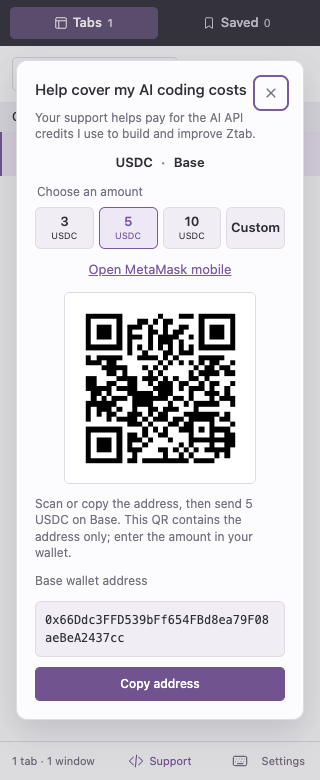
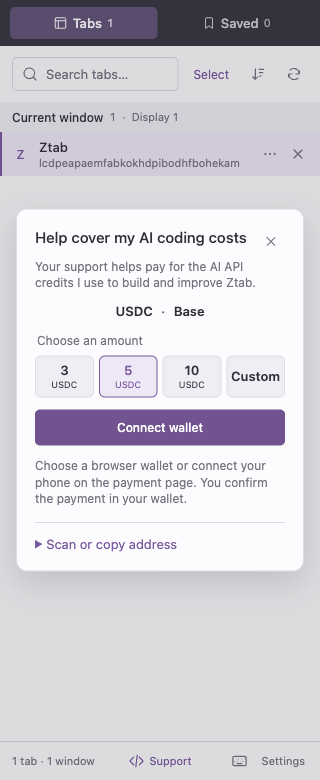
(fix): (route Ztab support through the hosted wallet checkout and remove mobile payment links that fail in desktop MetaMask)

diff --git a/side-panel.html b/side-panel.html
@@ -59,7 +59,7 @@
         </span>
       </footer>
     </main>
-    <dialog id="support-dialog" class="dialog support-dialog" aria-labelledby="support-title" aria-describedby="support-instructions">
+    <dialog id="support-dialog" class="dialog support-dialog" aria-labelledby="support-title" aria-describedby="support-wallet-help">
       <div class="support-heading">
         <h2 id="support-title" class="dialog-title">Help cover my AI coding costs</h2>
         <button id="close-support" class="icon-button" type="button" aria-label="Close support dialog" title="Close"></button>
@@ -79,14 +79,17 @@
         </label>
         <p id="support-amount-error" class="support-amount-error" role="status" aria-live="polite"></p>
       </fieldset>
-      <a id="support-pay" class="primary support-pay" target="_blank" rel="noopener noreferrer" hidden>Continue with wallet</a>
-      <a id="support-mobile" class="support-mobile" target="_blank" rel="noopener noreferrer" hidden>Open MetaMask mobile</a>
-      <img class="support-qr" src="icons/support-base-usdc.png" width="192" height="192" alt="QR code containing the wallet address below" />
-      <p id="support-instructions" class="dialog-help">Scan or copy the address, then send USDC on Base.</p>
-      <label class="field support-address-label" for="support-address">Base wallet address</label>
-      <textarea id="support-address" class="support-address" rows="2" readonly spellcheck="false"></textarea>
-      <button id="copy-support-address" class="primary support-copy" type="button">Copy address</button>
-      <p id="support-copy-status" class="support-copy-status" role="status" aria-live="polite"></p>
+      <a id="support-pay" class="primary support-pay" target="_blank" rel="noopener noreferrer" hidden>Connect wallet</a>
+      <p id="support-wallet-help" class="dialog-help">Choose a browser wallet or connect your phone on the payment page. You confirm the payment in your wallet.</p>
+      <details class="support-manual">
+        <summary>Scan or copy address</summary>
+        <img class="support-qr" src="icons/support-base-usdc.png" width="192" height="192" alt="QR code containing the wallet address below" />
+        <p id="support-instructions" class="dialog-help">Scan or copy the address, then send USDC on Base.</p>
+        <label class="field support-address-label" for="support-address">Base wallet address</label>
+        <textarea id="support-address" class="support-address" rows="2" readonly spellcheck="false"></textarea>
+        <button id="copy-support-address" class="support-copy" type="button">Copy address</button>
+        <p id="support-copy-status" class="support-copy-status" role="status" aria-live="polite"></p>
+      </details>
     </dialog>
     <script type="module" src="src/tab-tree.js"></script>
   </body>

diff --git a/tests/support.test.js b/tests/support.test.js
@@ -5,7 +5,7 @@ import jsQR from "jsqr";
 import { PNG } from "pngjs";
 import {
   parseSupportAmount, SUPPORT_WALLET_ADDRESS, SUPPORT_USDC_ADDRESS,
-  supportCheckoutUrl, supportPaymentUri, supportMetaMaskUrl,
+  supportCheckoutUrl, supportPaymentUri,
 } from "../src/shared/support.js";
 
 test("the bundled support QR decodes to the same recipient as the copy button", () => {
@@ -29,20 +29,21 @@ test("invalid and overflowing amounts cannot create a payment request", () => {
   for (const value of ["", "0", "0.000000", "-3", "1e6", "1,5", "1.0000001", "3.", ".5", "NaN", "Infinity", "9".repeat(73)]) {
     assert.equal(parseSupportAmount(value), null, value);
     assert.equal(supportPaymentUri(value), "", value);
-    assert.equal(supportMetaMaskUrl(value), "", value);
+    assert.equal(supportCheckoutUrl(value), "", value);
   }
   const overflow = ((1n << 256n) / 1_000_000n + 1n).toString();
   assert.equal(parseSupportAmount(overflow), null);
 });
 
-test("wallet links request native Base USDC with the exact recipient and atomic amount", () => {
+test("payment QR requests native Base USDC with the exact recipient and atomic amount", () => {
   const request = `${SUPPORT_USDC_ADDRESS}@8453/transfer?address=${SUPPORT_WALLET_ADDRESS}&uint256=1234567`;
   assert.equal(supportPaymentUri("1.234567"), `ethereum:${request}`);
-  assert.equal(supportMetaMaskUrl("1.234567"), `https://link.metamask.io/send/${request}`);
 });
 
-test("checkout is unavailable until configured and passes only a normalized amount", () => {
-  assert.equal(supportCheckoutUrl("5"), "");
+test("checkout opens the hosted wallet page and passes only a normalized amount", () => {
+  assert.equal(supportCheckoutUrl("5"), "https://z08-studio.github.io/ztab/?amount=5");
+  assert.equal(supportCheckoutUrl("1.234567"), "https://z08-studio.github.io/ztab/?amount=1.234567");
+  assert.equal(supportCheckoutUrl("5", ""), "");
   for (const url of ["javascript:alert(1)", "http://example.com", "https://user:password@example.com", "not a URL"]) {
     assert.equal(supportCheckoutUrl("5", url), "");
   }

diff --git a/support-site/main.js b/support-site/main.js
@@ -2,7 +2,7 @@ import QRCode from "qrcode";
 import brandIcon from "../icons/icon48.png";
 import favicon from "../icons/icon32.png";
 import { initSupportAmount } from "../src/support-amount.js";
-import { SUPPORT_DEFAULT_AMOUNT, SUPPORT_WALLET_ADDRESS, supportMetaMaskUrl, supportPaymentUri } from "../src/shared/support.js";
+import { SUPPORT_DEFAULT_AMOUNT, SUPPORT_WALLET_ADDRESS, supportPaymentUri } from "../src/shared/support.js";
 
 const amountFields = document.getElementById("support-amount");
 const connect = document.getElementById("connect-wallet");
@@ -13,7 +13,6 @@ const transactionLink = document.getElementById("transaction");
 const manual = document.getElementById("manual-payment");
 const manualInstructions = document.getElementById("manual-instructions");
 const qr = document.getElementById("payment-qr");
-const mobile = document.getElementById("metamask-mobile");
 const address = document.getElementById("recipient");
 const copy = document.getElementById("copy-address");
 const copyStatus = document.getElementById("copy-status");
@@ -48,11 +47,8 @@ initSupportAmount(amountFields, (value) => {
     amount = value;
     copyStatus.textContent = "";
     qr.hidden = !amount;
-    mobile.hidden = !amount;
-    mobile.removeAttribute("href");
     manualInstructions.textContent = amount ? `${amount.amount} USDC on Base` : "Choose an amount above.";
     if (amount) {
-        mobile.href = supportMetaMaskUrl(amount.amount);
         // This is a payment request, not an address-only QR: it includes Base,
         // Circle's USDC contract, the recipient, and the exact atomic amount.
         QRCode.toCanvas(qr, supportPaymentUri(amount.amount), { width: 224, margin: 4, errorCorrectionLevel: "M" })

diff --git a/src/shared/support.js b/src/shared/support.js
@@ -7,9 +7,8 @@ export const SUPPORT_USDC_ADDRESS = "0x833589fCD6eDb6E08f4c7C32D4f71b54bdA02913"
 export const SUPPORT_DEFAULT_AMOUNT = "5";
 export const SUPPORT_AMOUNT_ERROR = "Enter an amount greater than 0, with up to 6 decimal places.";
 
-// Set this only after the support site and its Reown project are ready.
-// Leaving it empty keeps the extension's local scan/copy flow available.
-export const SUPPORT_CHECKOUT_URL = "";
+// Browser wallets connect on the hosted page rather than a chrome-extension origin.
+export const SUPPORT_CHECKOUT_URL = "https://z08-studio.github.io/ztab/";
 
 export function parseSupportAmount(value) {
     const match = /^(\d+)(?:\.(\d{1,6}))?$/.exec(String(value).trim());
@@ -41,9 +40,4 @@ export function supportPaymentUri(amount) {
     const parsed = parseSupportAmount(amount);
     if (!parsed) return "";
     return `ethereum:${SUPPORT_USDC_ADDRESS}@${SUPPORT_CHAIN_ID}/transfer?address=${SUPPORT_WALLET_ADDRESS}&uint256=${parsed.units}`;
-}
-
-export function supportMetaMaskUrl(amount) {
-    const uri = supportPaymentUri(amount);
-    return uri ? uri.replace("ethereum:", "https://link.metamask.io/send/") : "";
 }

diff --git a/src/support.js b/src/support.js
@@ -1,5 +1,5 @@
 import { icon } from "./panel-ui.js";
-import { SUPPORT_WALLET_ADDRESS, supportCheckoutUrl, supportMetaMaskUrl } from "./shared/support.js";
+import { SUPPORT_WALLET_ADDRESS, supportCheckoutUrl } from "./shared/support.js";
 import { initSupportAmount } from "./support-amount.js";
 
 export function initSupportDialog() {
@@ -11,7 +11,6 @@ export function initSupportDialog() {
     const status = document.getElementById("support-copy-status");
     const instructions = document.getElementById("support-instructions");
     const pay = document.getElementById("support-pay");
-    const mobile = document.getElementById("support-mobile");
     let amount = null;
 
     trigger.prepend(icon("code"));
@@ -27,10 +26,6 @@ export function initSupportDialog() {
         pay.hidden = !checkout;
         if (checkout) pay.href = checkout;
         else pay.removeAttribute("href");
-        const mobileUrl = supportMetaMaskUrl(amount?.amount);
-        mobile.hidden = !mobileUrl;
-        if (mobileUrl) mobile.href = mobileUrl;
-        else mobile.removeAttribute("href");
     });
 
     trigger.addEventListener("click", () => {

diff --git a/support-site/support.css b/support-site/support.css
@@ -69,14 +69,13 @@ button:focus-visible, a:focus-visible, input:focus-visible, textarea:focus-visib
 .status { overflow-wrap: anywhere; }
 .status[data-error="true"] { color: var(--danger); }
 .status:empty { display: none; }
-.transaction, .mobile-link { color: var(--accent); overflow-wrap: anywhere; }
+.transaction { color: var(--accent); overflow-wrap: anywhere; }
 .transaction { display: block; margin: 12px 0; }
 
 details { margin-top: 24px; padding-top: 16px; border-top: 1px solid var(--line); }
 summary { color: var(--accent); cursor: pointer; }
 .manual-instructions { text-align: center; overflow-wrap: anywhere; font-weight: 600; }
 .payment-qr { display: block; width: min(100%, 224px); height: auto; margin: 16px auto; border-radius: 8px; }
-.mobile-link { display: block; text-align: center; margin: 14px 0; }
 .address-label { display: block; margin: 12px 0 5px; color: var(--muted); font-size: 12px; }
 textarea {
     display: block;

diff --git a/support-site/index.html b/support-site/index.html
@@ -41,7 +41,6 @@
         <p id="manual-instructions" class="manual-instructions"></p>
         <canvas id="payment-qr" class="payment-qr" width="224" height="224" role="img" aria-label="Base USDC payment request QR"></canvas>
         <p class="wallet-help">Scan with a wallet that supports payment requests. If it cannot read this QR, copy the address below and select USDC on Base.</p>
-        <a id="metamask-mobile" class="mobile-link" target="_blank" rel="noopener noreferrer">Open MetaMask mobile</a>
         <label class="address-label" for="recipient">Recipient on Base</label>
         <textarea id="recipient" rows="2" readonly spellcheck="false"></textarea>
         <button id="copy-address" class="secondary" type="button">Copy address</button>

diff --git a/src/tab-tree.css b/src/tab-tree.css
@@ -936,11 +936,19 @@ input::placeholder {
     text-align: center;
 }
 
-.support-mobile {
-    display: block;
-    margin: 10px 0 14px;
+.support-manual {
+    margin-top: 16px;
+    padding-top: 12px;
+    border-top: 1px solid var(--line);
+}
+
+.support-manual summary {
     color: var(--accent);
-    text-align: center;
+    cursor: pointer;
+}
+
+.support-manual[open] summary {
+    margin-bottom: 12px;
 }
 
 .support-thanks {

diff --git a/support-site/README.md b/support-site/README.md
@@ -2,7 +2,7 @@
 
 This optional static page uses Reown AppKit for browser-wallet discovery, WalletConnect QR connections, and mobile wallet links. Payments transfer Circle's native USDC on Base directly to the configured recipient. Reown's separately priced Pay with Wallet product is not used.
 
-The extension remains native JavaScript and does not bundle this page or its wallet SDK. Its local dialog includes 3, 5, 10 USDC and custom amounts, a MetaMask mobile payment link, and an address-only QR/copy fallback. A configured checkout link opens this page in a regular web tab, where browser wallets can inject their providers.
+The extension remains native JavaScript and does not bundle this page or its wallet SDK. Its local dialog includes 3, 5, 10 USDC and custom amounts. **Connect wallet** opens this page in a regular web tab, where browser wallets can inject their providers. An expandable address-only QR/copy section remains available as a manual fallback.
 
 ## Local preview
 
@@ -16,14 +16,14 @@ Run `pnpm support:dev` from the repository root, then open `http://127.0.0.1:417
 2. Run `pnpm support:dev` and test actual desktop and mobile wallets. AppKit loads only when **Connect wallet** is selected. Only Base is configured; email/social login, analytics, swaps, and onramps are disabled.
 3. Run `pnpm support:build` and deploy the contents of `dist-support/` to an HTTPS static host. No environment file is required; the production build rejects malformed Project ID overrides. No backend, account database, or signing key is required.
 4. Set the deployed origin in the project's [Reown allowlist](https://docs.reown.com/cloud/relay). AppKit metadata uses the current origin. Check the project's current [plan limits](https://reown.com/pricing) before deployment.
-5. After the live page is verified, set `SUPPORT_CHECKOUT_URL` in `src/shared/support.js` to its HTTPS URL and run `pnpm package`. This enables **Continue with wallet** in the extension. The link passes only the selected amount; the recipient, token, and chain are fixed in code.
+5. The extension's `SUPPORT_CHECKOUT_URL` points to `https://z08-studio.github.io/ztab/`. If the host changes, update that constant in `src/shared/support.js` and run `pnpm package`. The link passes only the selected amount; the recipient, token, and chain are fixed in code.
 
-The production URL is deliberately empty until deployment. Neither this page nor the extended wallet flow has been published.
+The public host must be deployed before distributing an extension package that links to it. Local previews do not verify the public URL or its Reown origin settings.
 
 ## Payment behavior
 
 **Connect wallet** uses AppKit's existing wallet picker. Connecting does not submit a payment. **Send N USDC** requests a Base network switch if necessary, rechecks the network and account, and opens one USDC transfer for the wallet to approve. It requests no token allowance. A returned transaction hash is shown as **submitted**, with a BaseScan link; receipt confirmation is not monitored.
 
-The payment QR uses [ERC-681](https://eips.ethereum.org/EIPS/eip-681), including the Base chain ID, USDC contract, recipient, and amount in six-decimal atomic units. QR handling varies by wallet. The explicit [MetaMask mobile link](https://docs.metamask.io/metamask-connect/evm/guides/metamask-exclusive/use-deeplinks/) pre-fills these details in MetaMask; address copying remains available for other wallets.
+The payment QR uses [ERC-681](https://eips.ethereum.org/EIPS/eip-681), including the Base chain ID, USDC contract, recipient, and amount in six-decimal atomic units. QR handling varies by wallet, so address copying remains available. Wallet opening and connection are handled by AppKit. Direct MetaMask mobile payment links are intentionally omitted: the desktop extension can intercept them and return an unsupported-page error.
 
 The page accepts only `amount` from its URL. Recipient addresses, chains, and token contracts cannot be overridden through query parameters. No connection or transaction is initiated on page load. Reown may retain connection sessions in browser storage; payment details are public on the blockchain after submission. Never place a private key or seed phrase in this project.

diff --git a/tests/README.md b/tests/README.md
@@ -29,13 +29,15 @@ Real Chrome window metadata and UI behavior are still validated manually by load
 
 ## Base USDC support verification
 
-Verified on 2026-09-18 in an isolated Chrome for Testing profile with the actual extension page: **Support my coding** opens the dialog; 3, 5, 10 USDC and custom amounts update the instructions and MetaMask mobile link. An invalid amount hides the payment link. Copying uses the configured recipient, Escape closes the dialog, and focus returns to the footer. Light and dark layouts fit 280px, 320px, and 420px widths without horizontal overflow.
+Verified on 2026-09-18 in an isolated Chrome for Testing profile with the actual extension page: **Support my coding** opens the dialog with **Connect wallet** as its primary action. Presets and custom amounts update the checkout URL, and invalid amounts hide the link. **Scan or copy address** expands the manual fallback; copying uses the configured recipient. Escape closes the dialog and returns focus to the footer. Light and dark layouts fit 280px, 320px, and 420px widths without horizontal overflow. The unsupported MetaMask mobile links are absent from both interfaces.
+
+The extension-to-checkout flow was tested with the proposed GitHub Pages URL routed to the local production build in the isolated browser: selecting 10 USDC opens the expected URL, retains the selected amount, and opens the real Reown wallet picker. The temporary test route was removed afterward. This verifies local navigation and integration, not public deployment; the GitHub Pages site is awaiting hosting approval and must be published before this package is distributed.
 
 The standalone support page was reviewed in light and dark styles at 320px, 420px, and 900px. The URL amount, custom validation, clipboard success, and denied-clipboard manual selection worked. Actual rendered QR images for 3 and 1.234567 USDC decoded to the expected Base payment request. Wallet services load only after Connect is selected.
 
 The supplied public Project ID is now included in the Vite configuration. A production build with all environment files absent succeeds and embeds this default ID. Configuration checks also verify blank-value fallback, a custom environment override, and rejection of a malformed production override. The real AppKit picker was verified with this Project ID: it loads wallet options including MetaMask, Coinbase, and Trust Wallet, and WalletConnect produces a pairing QR. No wallet was paired and no transaction was sent. The integration uses the installed SDK's `getAccount().isConnected` API when choosing the Connect or Account view.
 
-`pnpm package` passes all 158 tests and validates the packaged JavaScript. The QR test checks the bundled address against the copy recipient. Payment tests use a fake wallet provider to cover exact USDC encoding, switching/adding Base, cancellation, changed accounts, wrong networks, and uncertain transaction responses. Actual desktop wallet pairing, mobile app handoff, phone scanning, and a real transfer remain unverified. HTTPS deployment and the extension's checkout URL are still pending. UI references: [light support dialog](../docs/screenshots/base-usdc-support.png), [dark support dialog](../docs/screenshots/base-usdc-support-dark.png), [support page](../docs/screenshots/support-page.png), [dark support page](../docs/screenshots/support-page-dark.png), and [wallet picker](../docs/screenshots/reown-wallet-picker.png).
+`pnpm package` passes all 158 tests and validates the packaged JavaScript. The QR test checks the bundled address against the copy recipient. Payment tests use a fake wallet provider to cover exact USDC encoding, switching/adding Base, cancellation, changed accounts, wrong networks, and uncertain transaction responses. Actual desktop wallet pairing, mobile app handoff, phone scanning, and a real transfer remain unverified. UI references: [light support dialog](../docs/screenshots/base-usdc-support.png), [dark support dialog](../docs/screenshots/base-usdc-support-dark.png), [support page](../docs/screenshots/support-page.png), [dark support page](../docs/screenshots/support-page-dark.png), and [wallet picker](../docs/screenshots/reown-wallet-picker.png).
 
 ## Final PR review
 

diff --git a/PRIVACY_POLICY.md b/PRIVACY_POLICY.md
@@ -38,11 +38,11 @@ When the extension API omits display names, **Show display names** requests Chro
 
 ## Optional support
 
-The **Support my coding** dialog displays a bundled QR code and a public wallet address for USDC on Base. Amount choices and custom input stay local. **Copy address** writes the address to your clipboard only when selected. **Open MetaMask mobile** opens a MetaMask link containing the public recipient, Base USDC contract, and selected amount. The extension does not connect to a wallet or submit a transaction.
+The **Support my coding** dialog offers Base USDC amounts and a manual fallback with a bundled QR code and public wallet address. Amount choices and custom input stay local until **Connect wallet** is selected. **Copy address** writes the address to your clipboard only when selected. The extension does not connect to a wallet or submit a transaction.
 
-When an optional support-page URL is configured, **Continue with wallet** opens that page with only the selected amount. The support page loads Reown AppKit after **Connect wallet** is selected. Wallet connection and RPC providers then process the connection and payment requests; a connected wallet may expose its public address, network, and balances to the SDK, and the SDK may retain the connection session in browser storage. Optional AppKit analytics, email/social login, swaps, and onramps are disabled. No tab titles, browsing URLs, Saved entries, or diagnostics are passed to the support page.
+**Connect wallet** in the extension opens the hosted support page with only the selected amount. The support page loads Reown AppKit after its **Connect wallet** button is selected. Wallet connection and RPC providers then process the connection and payment requests; a connected wallet may expose its public address, network, and balances to the SDK, and the SDK may retain the connection session in browser storage. Optional AppKit analytics, email/social login, swaps, and onramps are disabled. No tab titles, browsing URLs, Saved entries, or diagnostics are passed to the support page.
 
-The support page requests a USDC transfer only after **Send** is selected, and the user's wallet must approve it. Confirmed transfers and their addresses and amounts are public on the blockchain. Ztab does not receive private keys or seed phrases. A returned transaction ID is linked to BaseScan; the page does not monitor confirmation. The standalone support page requires separate configuration and deployment before the extension's checkout link is enabled.
+The support page requests a USDC transfer only after **Send** is selected, and the user's wallet must approve it. Confirmed transfers and their addresses and amounts are public on the blockchain. Ztab does not receive private keys or seed phrases. A returned transaction ID is linked to BaseScan; the page does not monitor confirmation.
 
 ## Diagnostics
 

diff --git a/README.md b/README.md
@@ -178,9 +178,9 @@ Read the full [privacy policy](PRIVACY_POLICY.md).
 
 If something is not working as expected, open a [GitHub issue](https://github.com/boundless-forest/ztab/issues). Include the steps that caused the problem and, when relevant, diagnostics copied from the extension options page. Diagnostics may contain window and tab IDs, site origins, and window geometry, but not tab titles or full URLs.
 
-The footer's **Support my coding** button (shown as **Support** in narrow panels) helps cover the AI API credits used to build Ztab. Choose **3, 5, or 10 USDC**, or enter a custom amount. **Open MetaMask mobile** prepares a Base USDC transfer with the selected amount. You can also scan or copy the address and enter the amount in your own wallet; the extension's QR contains only the address.
+The footer's **Support my coding** button (shown as **Support** in narrow panels) helps cover the AI API credits used to build Ztab. Choose **3, 5, or 10 USDC**, or enter a custom amount. **Connect wallet** opens the payment page with that amount. **Scan or copy address** expands a manual fallback; the extension's QR contains only the address.
 
-An optional [support page](support-site/README.md) integrates Reown AppKit for desktop wallets and mobile WalletConnect connections. Ztab's public Reown Project ID is included in code, so production builds need no local environment file. Deploy the page to an HTTPS host; once its verified URL is configured, the extension shows **Continue with wallet**. The user approves any payment in their wallet.
+The [support page](support-site/README.md) uses Reown AppKit for desktop wallets and mobile WalletConnect connections. Ztab's public Reown Project ID is included in code, so production builds need no local environment file. The user chooses a wallet on that page and approves any payment in their wallet. Direct MetaMask mobile payment links are not used because desktop MetaMask can intercept them and show an unsupported-page error.
 
 To change the recipient, update `src/shared/support.js` and run `pnpm assets:support` to regenerate the bundled QR. The test suite decodes the image and checks that it matches the address used by the copy button.
 
